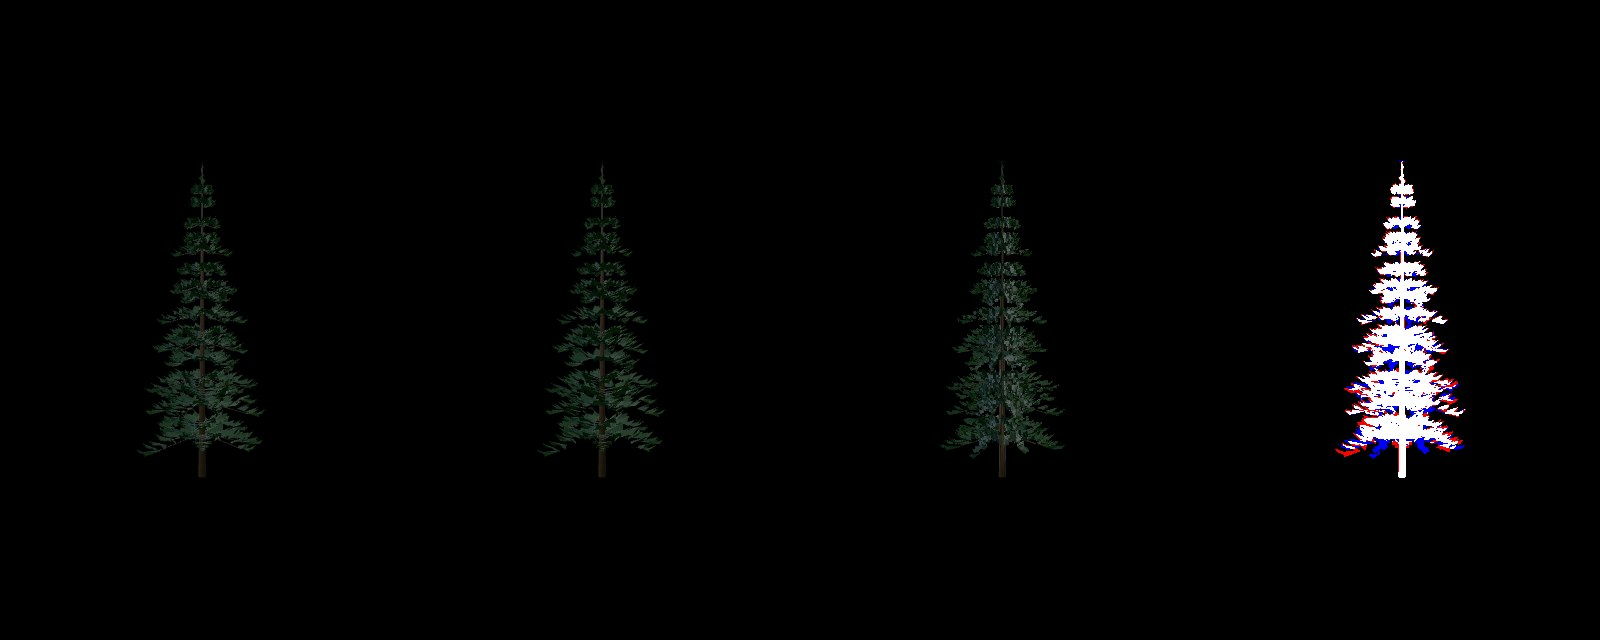
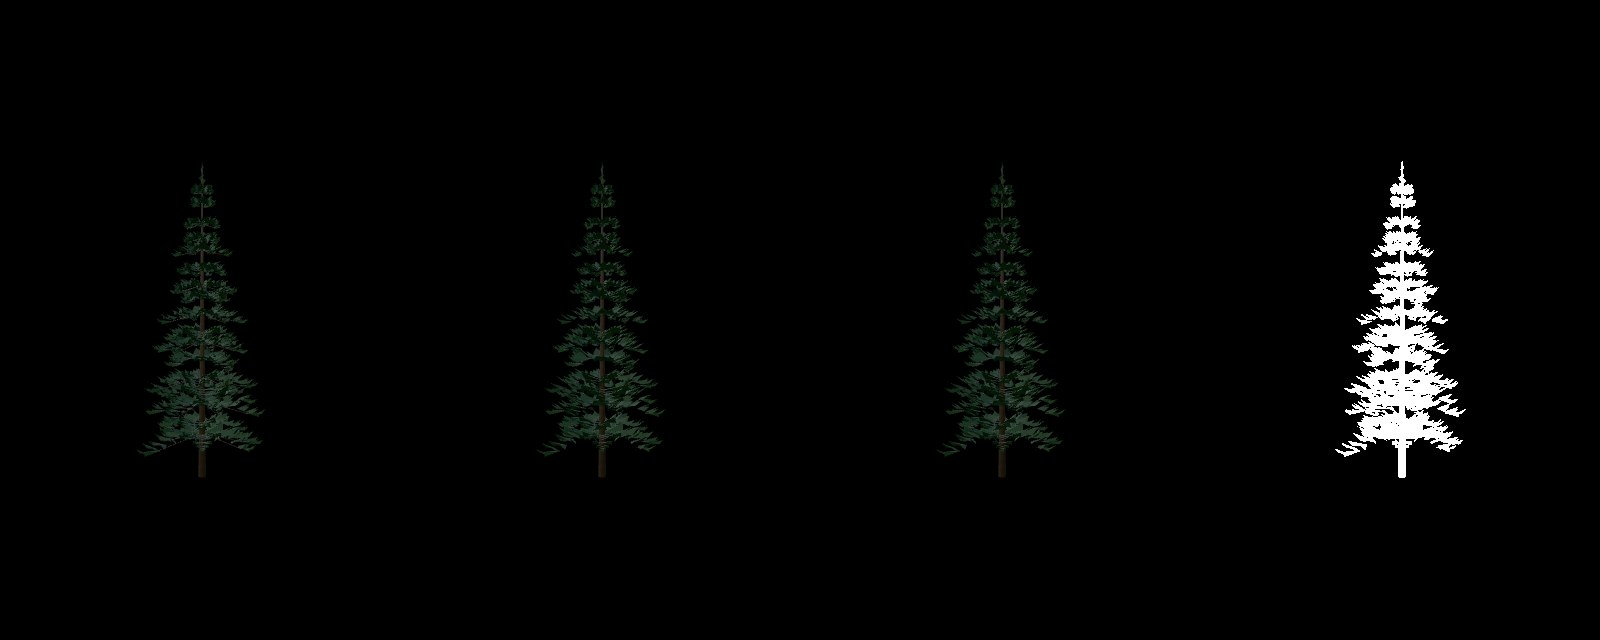
Document the forest swap gate and the Far measurements
Record every Far variant measured against the gate, the High against
Mobile calibration, the cost of keeping geometry beyond 250 m, and the
regenerated sizes, transfer reservation and captures.

Changed region(s): [[0.8125, 0.3438, 0.9375, 0.7188], [0.5938, 0.3438, 0.6562, 0.7188]]

diff --git a/docs/circuit-model-kits.md b/docs/circuit-model-kits.md
@@ -14,14 +14,14 @@ Twelve original scripted props, each with High / Mobile / Far LODs. All sizes be
 | marina-hotel | 752 / 624 / 516 | 14620 / 11412 / 10724 |
 | marina-pavilion | 336 / 208 / 208 | 12352 / 9480 / 9464 |
 | hill-pit-garage | 1448 / 696 / 444 | 36808 / 19064 / 16040 |
-| forest-spruce | 7062 / 3254 / 40 | 255412 / 117228 / 181136 |
-| forest-fir | 5540 / 2564 / 40 | 206648 / 97712 / 177272 |
+| forest-spruce | 7062 / 3254 / 3254 | 255412 / 117228 / 117220 |
+| forest-fir | 5540 / 2564 / 2564 | 206648 / 97712 / 97708 |
 
-New kit: 1,430,772 bytes across all LODs. Complete catalogue: 3,853,292 bytes, below the existing 4,000,000 byte cap. The Far trees carry two lossless 1152 × 384 atlases each (see Integration notes); that is where the extra 282 kB over the earlier lossy cards goes.
+New kit: 1,287,292 bytes across all LODs. Complete catalogue: 3,709,812 bytes, below the existing 4,000,000 byte cap.
 
-The production build reports 8.89 MiB for the existing High first race and 3.71 MiB on Mobile. `kit-budget.json` reserves every new LOD plus both circuits’ skies at both tiers on top of that baseline: High 10.37 MiB, Mobile 5.20 MiB, against 25 MB. This is a conservative model-asset allowance, not measured integrated Spa/Singapore traffic. Terrain, placement, light layout and circuit request telemetry remain with dressing.
+The production build reports 8.89 MiB for the existing High first race and 3.71 MiB on Mobile. `kit-budget.json` reserves every new LOD plus both circuits’ skies at both tiers on top of that baseline: High 10.23 MiB, Mobile 5.06 MiB, against 25 MB. This is a conservative model-asset allowance, not measured integrated Spa/Singapore traffic. Terrain, placement, light layout and circuit request telemetry remain with dressing.
 
-Monza loads none of these props, but it does pay for their catalogue entries: `props.catalog.json` is bundled into the client, and the twelve new entries add metadata only. Paired builds that swap only the catalogue measured +1,201 bytes of first-race transfer on both High (9,296,406 → 9,297,607) and Mobile (3,871,600 → 3,872,801), with identical prop inventories and prop bytes. Gzipped, the minified catalogue grows from 3,583 to 4,899 bytes. If Monza ever has to add zero bytes, split the catalogue per circuit; at this size it is not worth a second fetch.
+Monza loads none of these props, but it does pay for their catalogue entries: `props.catalog.json` is bundled into the client, and the twelve new entries add metadata only. Against the review's build with master's catalogue, the first race measures +1,142 bytes on both High (9,317,826 → 9,318,968) and Mobile (3,893,020 → 3,894,162), with identical prop inventories and prop bytes; the two forest entries account for 204 of them. If Monza ever has to add zero bytes, split the catalogue per circuit; at this size it is not worth a second fetch.
 
 ## Evidence and reproduction
 
@@ -29,17 +29,36 @@ Monza loads none of these props, but it does pay for their catalogue entries: `p
 - `<id>-scale.jpg`: the unscaled 5.6 m car alongside every prop.
 - `kit-forest.jpg`: overcast inspection assembly; `kit-marina.jpg`: night inspection assembly. These are preview placements, using the game Environment, rather than circuit dressing.
 - `*-night.jpg`: floodlight/truss and marina sheets and car-scale frames under the night environment with a track-light preview key.
-- `forest-sweep.json`, `forest-<id>-<light>-worst-tone.jpg`: the High/Far tone gate. Each tree is isolated against black (fog, ground and shadow maps off, so only the material and normal response is measured) and turned through a full revolution in 30° steps under overcast, afternoon sun and the night preview key; mean silhouette luma of High and Far from the same camera must stay within 15% at every one of the 72 samples. Measured worst cases: spruce 5.8% / 8.9% / 10.2%, fir 10.8% / 10.4% / 11.2% (overcast / afternoon / night). The record hashes the shipped Far GLBs, and `forest-lighting.test.mjs` rejects it if they change. `forest-luma.json` repeats the overcast revolution from the preview capture.
-- `forest-<id>-<light>-distances.jpg`: High | Mobile | Far in the full scene (sky, fog, shadows) from a 1.5 m eye at 50 m (top row) and 260 m (bottom row), at that light's worst azimuth.
-- `forest-transition.json` and `forest-<id>-transition.jpg`: High, Mobile and Far from the same camera at 0°, 30° and 60° (High | Mobile | Far | Mobile against Far: red Mobile only, blue Far only, white both), with mean luma, silhouette coverage and silhouette IoU. The capture fails if Mobile/Far coverage leaves 0.85–1.2 or either IoU drops below 0.6 (measured: coverage 0.96–1.02, IoU 0.66–0.81, lowest at 30° between card planes). This 400 × 640 view is not tone-gated. Its luma has Far 4–27% above Mobile, because against the black isolation background the thin needle sprays' partly covered edge pixels pull the near trees' mean down while the cards' alpha-tested edges are hard. In the scene frames above, against sky, the swap is not visible at 260 m, where Far takes over; at 50 m the Far crown reads slightly fuller.
+- `forest-swap.json`, `forest-<id>-<light>-swap.png`: the forest's LOD gate, measured where Far is actually drawn. Mobile against Far at 250 m and 300 m from a 1.5 m eye aimed at mid-crown, in the full scene (game sky, fog, ground, shadows), under overcast, afternoon and the night preview key, at twelve azimuths: 72 samples per species. Each sample must keep interior tone (mean luma over pixels solid in both levels: by day under 40% of the sky behind them, at night 6 levels above it), region tone (mean luma over the union of both silhouettes) and the solid-pixel count within 15%, and Mobile/Far coverage within 0.85–1.2. The camera is 35° on a 1000 px viewport, which samples the tree as the 60° chase camera does on a 1700 px tall display. The record hashes the Mobile and Far files; `forest-swap.test.mjs` rejects a stale or failing record. The crops are Mobile | Far at the worst azimuth, 250 m, enlarged 4× (nearest). Run `flock ~/.cache/undercut/gpu.lock node tools/props/swap.mjs` (`--probe` prints without writing; `SWAP_DETAIL=1` lists samples).
+- `forest-luma.json`: the earlier isolated material check (each tree against black, fog/ground/shadows off, High against Far at twelve azimuths under overcast); worst 6.9%.
+- `forest-transition.json` and `forest-<id>-transition.jpg`: High, Mobile and Far from the same camera at 0°, 30° and 60° (High | Mobile | Far | Mobile against Far: red Mobile only, blue Far only, white both), with mean luma, silhouette coverage and silhouette IoU. The capture fails if Mobile/Far coverage leaves 0.85–1.2 or either IoU drops below 0.6 (measured: coverage 0.96–1.02, IoU 0.66–0.81, lowest at 30° between card planes). Far is now the Mobile tree, so both read 1.00.
 - `kit-budget.json`: per-LOD counts/sizes and conservative transfer reservation. Run `node tools/props/kit-budget.mjs` after `npm run build`.
 
 Build with `npm run props:build -- --kits-only`. A full `npm run props:build` from an empty props folder (a clean export of this branch) succeeds and reproduces all 36 kit files and every slice 1 file byte for byte, except 23 crew and crowd files, which differ only in vertex order (same vertices, materials and AO, decoded; the documented export nondeterminism of the people). This branch leaves those people files as master has them. Kit meshes are named `<id>-<level>-<material>`, so a kits-only and a full build name them alike. Capture under the shared GPU lock using the commands in `tools/props/README.md`. All captures are inspected before handoff. The preview closes its server and browser in `finally`.
 
+## Forest: why Far is the Mobile tree
+
+Far is drawn only beyond 250 m, so the gate above measures it there, against Mobile. No cheaper Far passed. Worst case over the 72 samples per species, as interior / region / solid-pixel deltas (limits 15% / 15% / 15%):
+
+| Far | Overcast | Afternoon | Night |
+| --- | --- | --- | --- |
+| Crossed cards, coverage alpha, alpha-to-coverage at cutoff 0.5 | 7 / 16 / 58% | 32 / 24 / 42% | 55 / 31 / 64% |
+| Crossed cards, coverage alpha, alpha-to-coverage at cutoff 0, atlas from the Mobile tree | 5 / 9 / 39% | 21 / 16 / 34% | 29 / 37 / 71% |
+| Geometry with half the sprays (1,388 / 2,074 triangles) | 3 / 10 / 35% | 16 / 16 / 24% | 23 / 30 / 156% |
+| Mobile tree (shipped) | 0 / 0 / 0% | 0 / 0 / 0% | 0 / 0 / 0% |
+
+The cards as first reviewed (0/1 alpha, plain alpha test) measured worse still: up to 66% interior, 49% region and 4.1× the solid pixels, at the 60° chase field of view.
+
+The cards fail for structural reasons. At 250–300 m the atlas is read from mip levels where the GPU has averaged the needle normals and the shader renormalises them, so the card shades like one plane facing the camera: strongly lit or unlit by azimuth, while the Mobile tree's many small facets, each shaded on its own, keep the crown's tone nearly the same from every side (night, 250 m: Mobile 13.1–13.3 at 30° and 210°, card 18.2 and 10.4). Averaged alpha removes the sky between the tiers or, with alpha-to-coverage, thins the core; neither reproduces the dense tiers and open gaps the near sprays resolve to. Variants tried and measured (alpha cutoff 0–0.5, nearest mip sampling, no mipmaps on the normals, normals flipped toward the sky, a 1.5 m capture eye, lower opacity) moved one metric at the cost of another. Halving the sprays changes how much sky shows through the crown.
+
+Calibration: High against Mobile, two full-geometry levels of the same tree, passes every daytime metric (worst 5 / 8 / 12%) but not night (9 / 19 / 43%). Under the preview's single floodlight key only a few facets are lit, so any Far that differs from Mobile at all is likely to fail the night criteria.
+
+Cost: 2,564 (fir) and 3,254 (spruce) triangles per tree beyond 250 m instead of 40, about 0.1 MB more per species on disk. A thousand instanced trees are 2.6–3.3 million triangles; the dressing pass sets counts, and a placed forest still needs a frame-time measurement. A cheaper Far would need a different representation than the stock material allows here, for example per-pixel two-sided foliage shading or prebuilt mip chains, which belong to the render pipeline.
+
 ## Integration notes
 
-Street modules tile in 4 m lengths; place block and fence at the same ground pivot. The terminal post closes the end. Stands tile at 8 m, with eight crowd row attachments. Pit modules retain 6 m spacing and board/crew anchors. Trees are drooping branch tiers of separate needle sprays with gaps, and their Far cards are projected from the exported High tree (needles with their baked AO, trunk and limbs). Each of the three crossed planes has a separate tile per face, and the card faces export signed tangents. Each tile is rasterised at twice its 192 × 384 resolution and box-filtered, so a texel carries the mean albedo and mean normal that a multisampled pixel of the near tree shows. Normals snap to a 128-direction codebook, and both atlases are lossless WebP; lossy WebP blurred the normals and darkened the cards' shadowed side by up to 43%. The cards therefore shade like the near tree under any light. Keep the cards' own normals and normal map when instancing. The temporary stand's Far LOD keeps its population bounded at 1,552 triangles per 8 m module; crowd rows are attachments, not geometry. Both forest species are conifers, intended for varied forest-edge placements.
+Street modules tile in 4 m lengths; place block and fence at the same ground pivot. The terminal post closes the end. Stands tile at 8 m, with eight crowd row attachments. Pit modules retain 6 m spacing and board/crew anchors. Trees are drooping branch tiers of separate needle sprays with gaps: High adds a raised spray per twig and woody limbs; Mobile and Far are the same tree (see the forest section below). The temporary stand's Far LOD keeps its population bounded at 1,552 triangles per 8 m module; crowd rows are attachments, not geometry. Both forest species are conifers, intended for varied forest-edge placements.
 
 Window occupancy is a geometric emissive mask through the named `window-emissive-mask` material. Floodlight anchors expose emitter material and local aim. These emitters need actual local light slots in the night renderer to light the road. Facades are generic backdrops; no real landmarks or brands are reproduced.
 
-Actual Spa/Singapore dressing and the existing Monza tree system are outside this change. Crossed cards and low-poly boughs still need a moving-camera review once integrated. No third-party assets or textures were used.
+Actual Spa/Singapore dressing and the existing Monza tree system are outside this change. Low-poly boughs still need a moving-camera review once integrated. No third-party assets or textures were used.

diff --git a/docs/STATUS.md b/docs/STATUS.md
@@ -232,6 +232,5 @@ Keys: arrows or WASD drive, Q/E shift (gears are automatic by default), F asks f
 - Deliver twelve catalogue props without changing world placement or enabling dressing in drive.ts. The dressing slice owns integration; current Spa/Singapore races therefore request no new prop files yet.
 - Street barrier and fence modules tile along +Z at 4 m; the terminal post closes a run. Temporary scaffold stands tile at 8 m and expose eight crowd rows. Hill pit garages use the existing 6 m team-board contract.
 - Generic marina office, hotel and pavilion silhouettes carry deterministic lit/dark window masks as separate PBR material regions. No landmark, logo or third-party asset is included. Lamp attachments expose emitter material and downward aim; the dressing renderer must provide actual local light illumination (emission alone lights only the panel).
-- Forest spruce and fir use near bough geometry and alpha-tested crossed-card atlases with shared physical albedo, no baked light direction. The preview checks the LOD swap luminance under identical lighting. These supplement the existing parkland tree system; fixing that system's existing Monza brightness mismatch remains with dressing.
-- Far tree cards: lossless WebP atlases (normals on a 128-direction codebook, 192 × 384 tiles box-filtered from 2×) instead of lossy ones. This costs about 140 kB more per species (Far 177–181 kB; complete kit 3.85 of 4 MB) but is the only encoding tried that holds the 15% tone gate: lossy quality 90 darkened the shadowed side by up to 43%, and half-resolution normals by up to 25%. The full-revolution gate is measured as the review did it (multisampled, isolated against black); at the smaller transition view Far reads 4–27% above Mobile for the reason given in `docs/circuit-model-kits.md`.
+- Forest spruce and fir are needle-bough geometry at every level; their Far level is the Mobile tree. Measured at the real swap (250–300 m, full scene, three lightings, twelve azimuths), every cheaper Far tried changed the tree's tone or density well past 15%: crossed cards in several forms by up to 71%, half-density geometry by up to 156%. Removing the swap costs 2.6–3.3k triangles per tree beyond 250 m instead of 40; dressing sets the counts. The night criteria fail even High against Mobile (19% region, 43% solid), so they cannot certify any Far that differs from Mobile.
 - Transfer reservation adds all new levels and both circuits' sky tiers to the existing first race, without subtracting replaced assets. It is deliberately conservative; actual integrated circuit request telemetry belongs to the placement pass.
